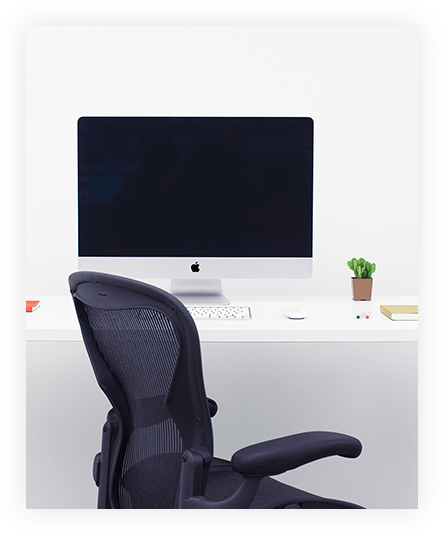
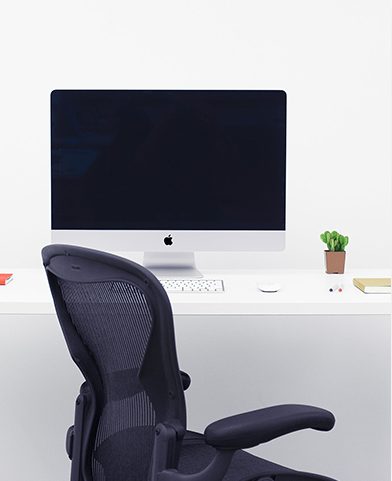
Adjust 'What they says' section. Unify slider in About us and What they says sections

Changed region(s): [[0.0, 0.1871, 1.0, 1.0], [0.0612, 0.5613, 0.0918, 0.5925], [0.0, 0.5613, 0.0306, 0.5925]]

diff --git a/homeworks/alexandr.kuskov_AlexKuskov/homework_markup_3_plus/index.html b/homeworks/alexandr.kuskov_AlexKuskov/homework_markup_3_plus/index.html
@@ -316,35 +316,42 @@
                     </p>
                 </header>
 
-                <div class="picture-slider picture-slider--small">
-                    <div class="pictures">
-                        <img class="pictures__next-image" src="./images/background-rect.png" alt="Next image">
-                        <img class="pictures__current-image" src="./images/small-team/team-member-3.jpeg" alt="Chair and desktop with iMac">
+                <div class="align-box align-box--center">
+                    <div class="picture-slider picture-slider--big">
+                        <div class="pictures">
+                            <img class="pictures__next-image" src="./images/background-rect.png" alt="Next image">
+                            <img
+                                class="pictures__current-image pictures__current-image--small"
+                                src="./images/small-team/team-member-3.jpeg"
+                                alt="Chair and desktop with iMac">
+                        </div>
+                        <div class="slider">
+                            <button class="slider-dot"></button>
+                            <button class="slider-dot"></button>
+                            <button class="slider-dot"></button>
+                            <button class="slider-dot"></button>
+                        </div>
                     </div>
-                    <div class="slider">
-                        <button class="slider-dot"></button>
-                        <button class="slider-dot"></button>
-                        <button class="slider-dot"></button>
-                        <button class="slider-dot"></button>
+
+                    <div class="feedback">
+                        <h3 class="feedback__name">
+                            AL RAYHAN
+                            <span class="feedback__job-position">/ UI/UX DESIGNER</span>
+                        </h3>
+                        <p class="feedback__description">
+                            Lorem Ipsum is simply dummy text of the printing and you
+                            standard dummy know that text ever since the 1500s, when
+                            an unknown printer took a galley of type and scrambled it
+                            to make a type specimen book.
+                        </p>
+                        <div class="feedback__rate"></div>
+
+                        <div class="feedback__buttons">
+                            <button class="feedback__button feedback__button--back"></button>
+                            <button class="feedback__button"></button>
+                        </div>
                     </div>
                 </div>
-
-                <div class="feedback">
-                    <h3 class="feedback__name">
-                        AL RAYHAN
-                        <span class="feedback__job-position">/ UI/UX DESIGNER</span>
-                    </h3>
-                    <p class="feedback__description">
-                        Lorem Ipsum is simply dummy text of the printing and you
-                        standard dummy know that text ever since the 1500s, when
-                        an unknown printer took a galley of type and scrambled it
-                        to make a type specimen book.
-                    </p>
-                    <div class="feedback__rate"></div>
-                </div>
-
-                <button class="feedback__button feedback__button--back"></button>
-                <button class="feedback__button feedback__button--next"></button>
             </div>
         </section>
 

diff --git a/homeworks/alexandr.kuskov_AlexKuskov/homework_markup_3_plus/style.css b/homeworks/alexandr.kuskov_AlexKuskov/homework_markup_3_plus/style.css
@@ -47,6 +47,10 @@ body {
   justify-content: space-between;
 }
 
+.align-box--center {
+  align-items: center;
+}
+
 /* Main section ('Say hello to shopno!') */
 
 .main {
@@ -124,25 +128,37 @@ body {
 }
 
 .picture-slider {
-  width: 40%;
+  position: relative;
+  width: 42%;
   text-align: center;
   margin-left: 5%;
 }
 
-.picture-slider--small {
-  width: 33%;
+.picture-slider--big {
+  width: 46%;
 }
 
 .pictures__current-image {
   position: relative;
-  width: 100%;
+  width: 80%;
+}
+
+.pictures__current-image--small {
+  top: 6px;
 }
 
 .pictures__next-image {
-  width: 108%;
+  width: 100%;
   position: absolute;
-  top: 10%;
-  right: -4%;
+  top: 6%;
+  right: 0;
+}
+
+.slider {
+  position: absolute;
+  right: 0;
+  left: 0;
+  bottom: -10%;
 }
 
 .slider-dot {
@@ -180,6 +196,7 @@ body {
 
 .about-us-text__title {
   font-size: 20px;
+  margin-top: 0;
 }
 
 .about-us-text__mini-title {
@@ -418,22 +435,6 @@ body {
   border-bottom: 20px solid #6FF6EB;
 }
 
-.member-info__name,
-.feedback__name {
-  font-family: "Merriweather", serif;
-  font-size: 20px;
-  margin-top: 0;
-  letter-spacing: 1px;
-}
-
-.member-info__job-position,
-.feedback__job-position {
-  font-size: 14px;
-  font-style: italic;
-  font-weight: 400;
-  opacity: .6;
-}
-
 .member-info__description {
   color: #272727;
   margin-bottom: 15%;
@@ -456,19 +457,47 @@ body {
 
 .what-they-says {
   background-color: #F9FBFB;
+  padding-bottom: 12%;
+}
+
+.what-they-says__content {
+  display: flex;
+  align-items: center;
 }
 
 .feedback {
   display: inline-block;
+  position: relative;
   text-align: center;
-  width: 500px;
+  width: 65%;
   margin-left: 8%;
-  padding: 100px 85px 65px;
+  padding: 8% 8% 5%;
   background-color: #EAEBED;
+}
+
+.feedback__name {
+  margin-bottom: 6%;
+}
+
+.member-info__name,
+.feedback__name {
+  font-family: "Merriweather", serif;
+  font-size: 20px;
+  margin-top: 0;
+  letter-spacing: 1px;
+}
+
+.member-info__job-position,
+.feedback__job-position {
+  font-size: 14px;
+  font-style: italic;
+  font-weight: 400;
+  opacity: .6;
 }
 
 .feedback__description {
   opacity: .5;
+  margin-bottom: 5%;
 }
 
 .feedback__rate {
@@ -479,26 +508,48 @@ body {
   background-repeat: space;
 }
 
+.feedback__buttons {
+  display: flex;
+  justify-content: flex-end;
+  position: absolute;
+  right: 0;
+  bottom: -25%;
+  width: 25%;
+}
+
 .feedback__button {
-  width: 55px;
-  height: 55px;
+  padding: 10%;
   border-radius: 3px;
   filter: drop-shadow(3.126px 7.364px 5.5px #1414150D);
   background-color: #FFF;
-  background-image: url("./images/arrow.png");
-  background-repeat: no-repeat;
-  background-position: center;
-  opacity: .5;
   border: none;
   cursor: pointer;
 }
 
-.feedback__button:hover {
-  background-color: #71F6EB;
+.feedback__button::before {
+  content: "";
+  display: inline-block;
+  width: 25px;
+  height: 25px;
+  background-image: url("./images/arrow.png");
+  background-repeat: no-repeat;
+  background-position: center;
+  opacity: .5;
+}
+
+.feedback__button:hover::before {
   opacity: 1;
 }
 
+.feedback__button:hover {
+  background-color: #71F6EB;
+}
+
 .feedback__button--back {
+  margin-right: 25px;
+}
+
+.feedback__button--back::before {
   transform: rotate(180deg);
 }
 
